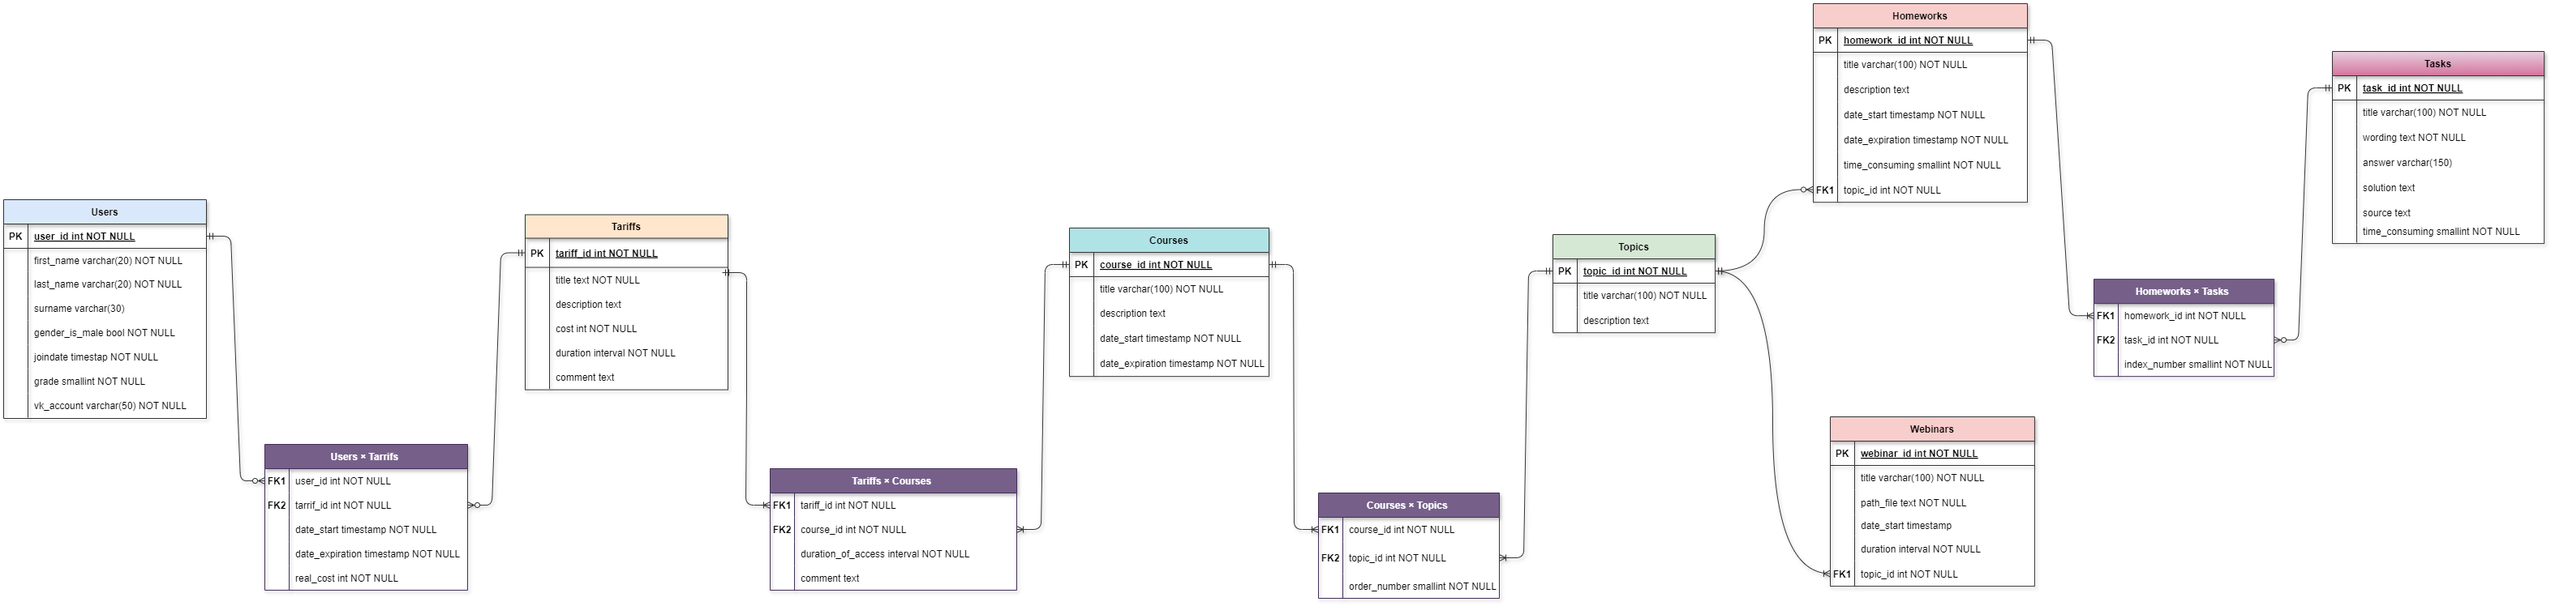
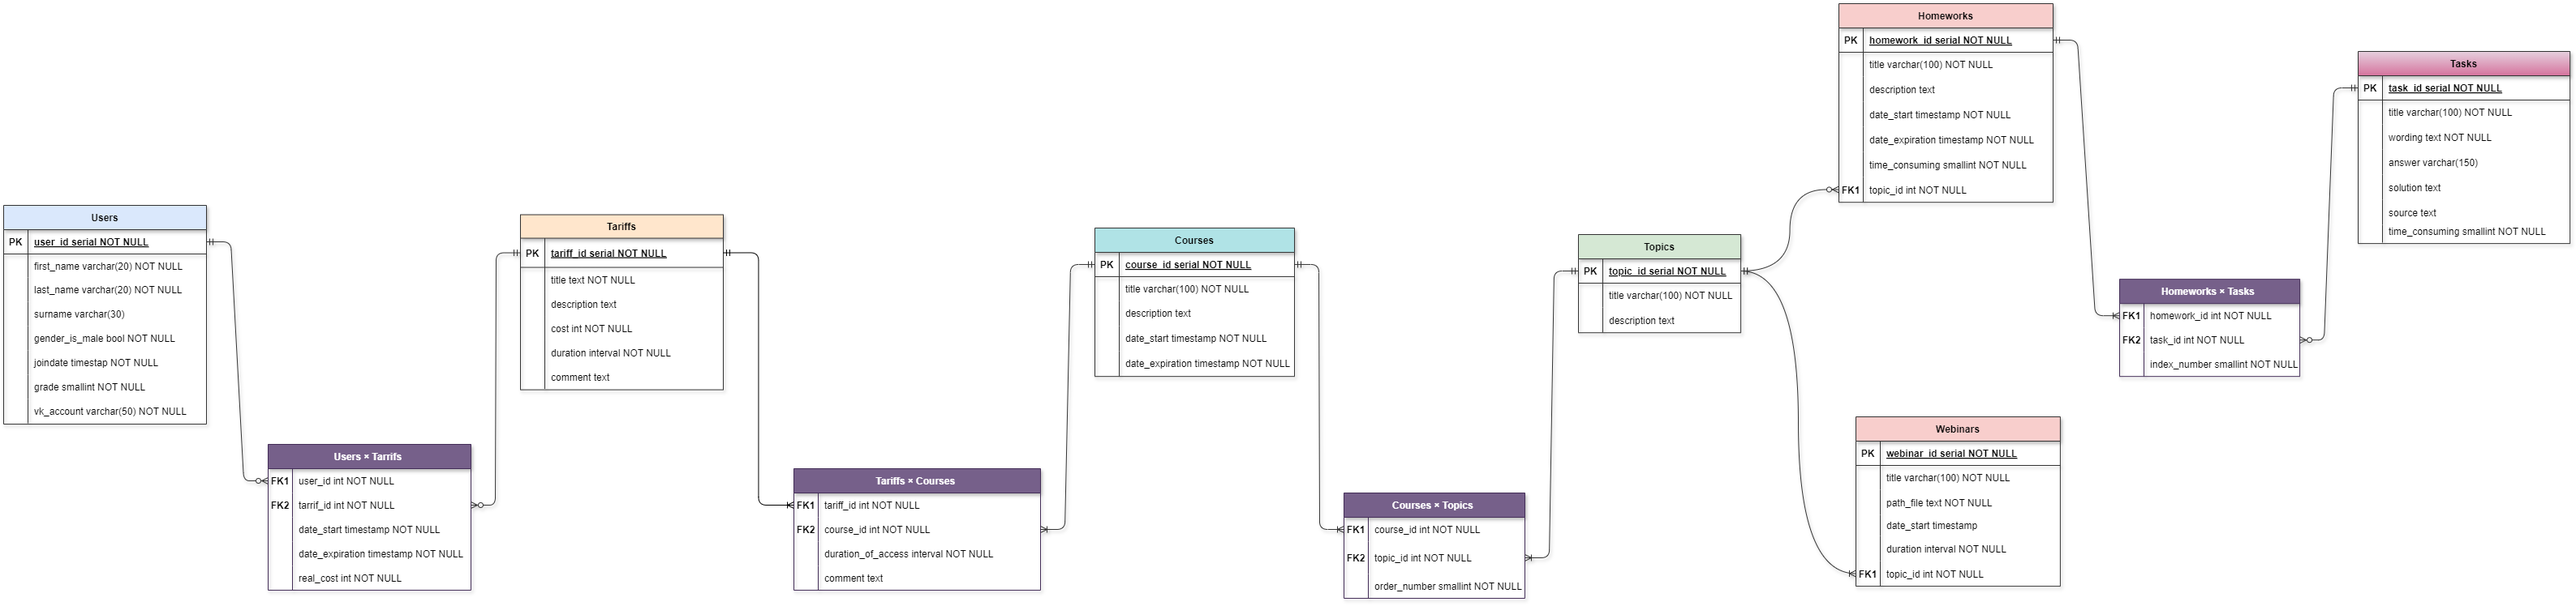
edit logical and physical diagrams

diff --git a/README.md b/README.md
@@ -49,7 +49,7 @@
 **Users:**
 | Название | Описание | Тип данных | Ограничение |
 | --------------- | --------------- | --------------- | --------------- |
-| `user_id`    | Идентификатор | INTEGER | PRIMARY KEY |
+| `user_id`    | Идентификатор | SERIAL | PRIMARY KEY |
 | `first_name`    | Имя | VARCHAR(20) | NOT NULL |
 | `last_name`    | Фамилия | VARCHAR(20) | NOT NULL |
 | `surname` | Отчество | VARCHAR(30) ||
@@ -68,7 +68,7 @@
 **Tariffs:**
 | Название | Описание | Тип данных | Ограничение |
 | --------------- | --------------- | --------------- | --------------- |
-| `tariff_id`    | Идентификатор | INTEGER | PRIMARY KEY |
+| `tariff_id`    | Идентификатор | SERIAL | PRIMARY KEY |
 | `title`    | Название | TEXT | NOT NULL |
 | `description` | Описание | TEXT | |
 | `cost`    | Стоимость в рублях | INTEGER | NOT NULL |
@@ -92,7 +92,7 @@
 **Courses:**
 | Название | Описание | Тип данных | Ограничение |
 | --------------- | --------------- | --------------- | --------------- |
-| `course_id`    | Идентификатор | INTEGER | PRIMARY KEY |
+| `course_id`    | Идентификатор | SERIAL | PRIMARY KEY |
 | `title`    | Название | VARCHAR(100) | NOT NULL |
 | `description` | Описание | TEXT | |
 | `date_start` | Дата начала курса | TIMESTAMP | NOT NULL |
@@ -114,7 +114,7 @@
 **Topics:**
 | Название | Описание | Тип данных | Ограничение |
 | --------------- | --------------- | --------------- | --------------- |
-| `topic_id`    | Идентификатор | INTEGER | PRIMARY KEY |
+| `topic_id`    | Идентификатор | SERIAL | PRIMARY KEY |
 | `title`    | Название | VARCHAR(100) | NOT NULL |
 | `description` | Описание | TEXT | |
 
@@ -132,7 +132,7 @@
 **Homeworks:**
 | Название | Описание | Тип данных | Ограничение |
 | --------------- | --------------- | --------------- | --------------- |
-| `homework_id`    | Идентификатор | INTEGER | PRIMARY KEY |
+| `homework_id`    | Идентификатор | SERIAL | PRIMARY KEY |
 | `title`    | Название | VARCHAR(100) | NOT NULL |
 | `description` | Описание | TEXT | |
 | `date_start` | Дата начала сдачи дз | TIMESTAMP | NOT NULL |
@@ -144,7 +144,7 @@
 **Webinars:**
 | Название | Описание | Тип данных | Ограничение |
 | --------------- | --------------- | --------------- | --------------- |
-| `webinar_id`    | Идентификатор | INTEGER | PRIMARY KEY |
+| `webinar_id`    | Идентификатор | SERIAL | PRIMARY KEY |
 | `title`    | Название | VARCHAR(100) | NOT NULL |
 |`path_file`| Путь к файлу для записи |TEXT | NOT NULL|
 | `date_start` | Дата начала | TIMESTAMP |
@@ -156,7 +156,7 @@
 **Tasks:**
 | Название | Описание | Тип данных | Ограничение |
 | --------------- | --------------- | --------------- | --------------- |
-| `task_id`    | Идентификатор | INTEGER | PRIMARY KEY |
+| `task_id`    | Идентификатор | SERIAL | PRIMARY KEY |
 | `title`    | Название | VARCHAR(100) | NOT NULL |
 | `wording`    | Условие | TEXT | NOT NULL |
 | `answer`    | Ответ | VARCHAR(150) | |
